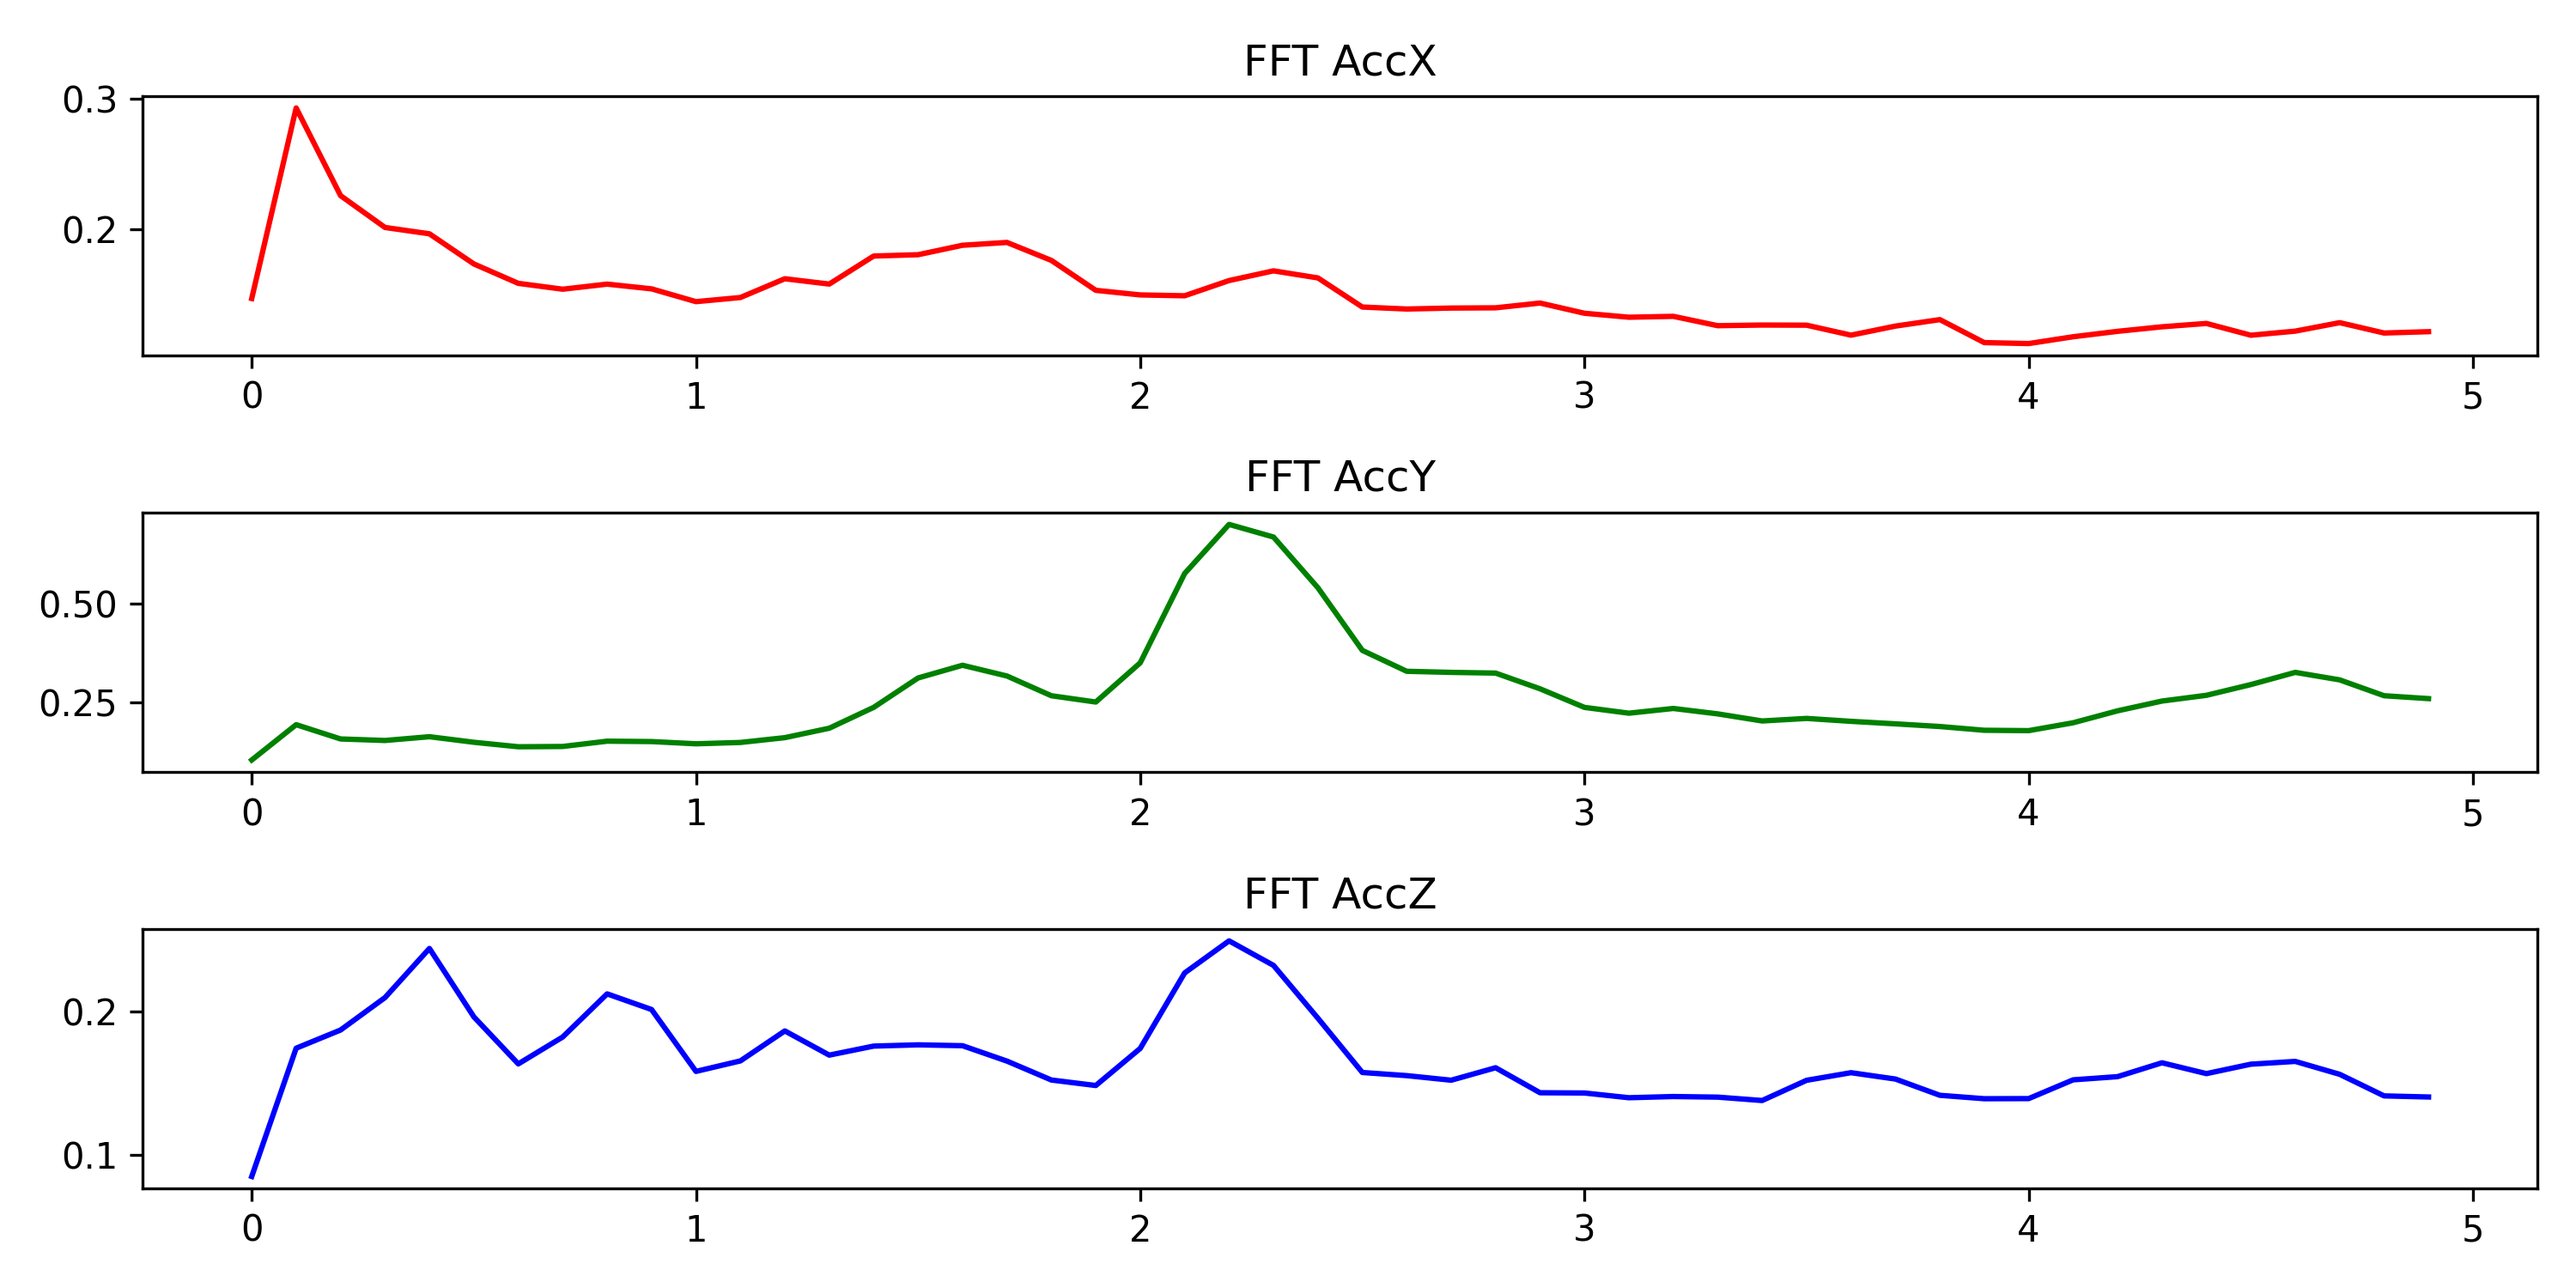
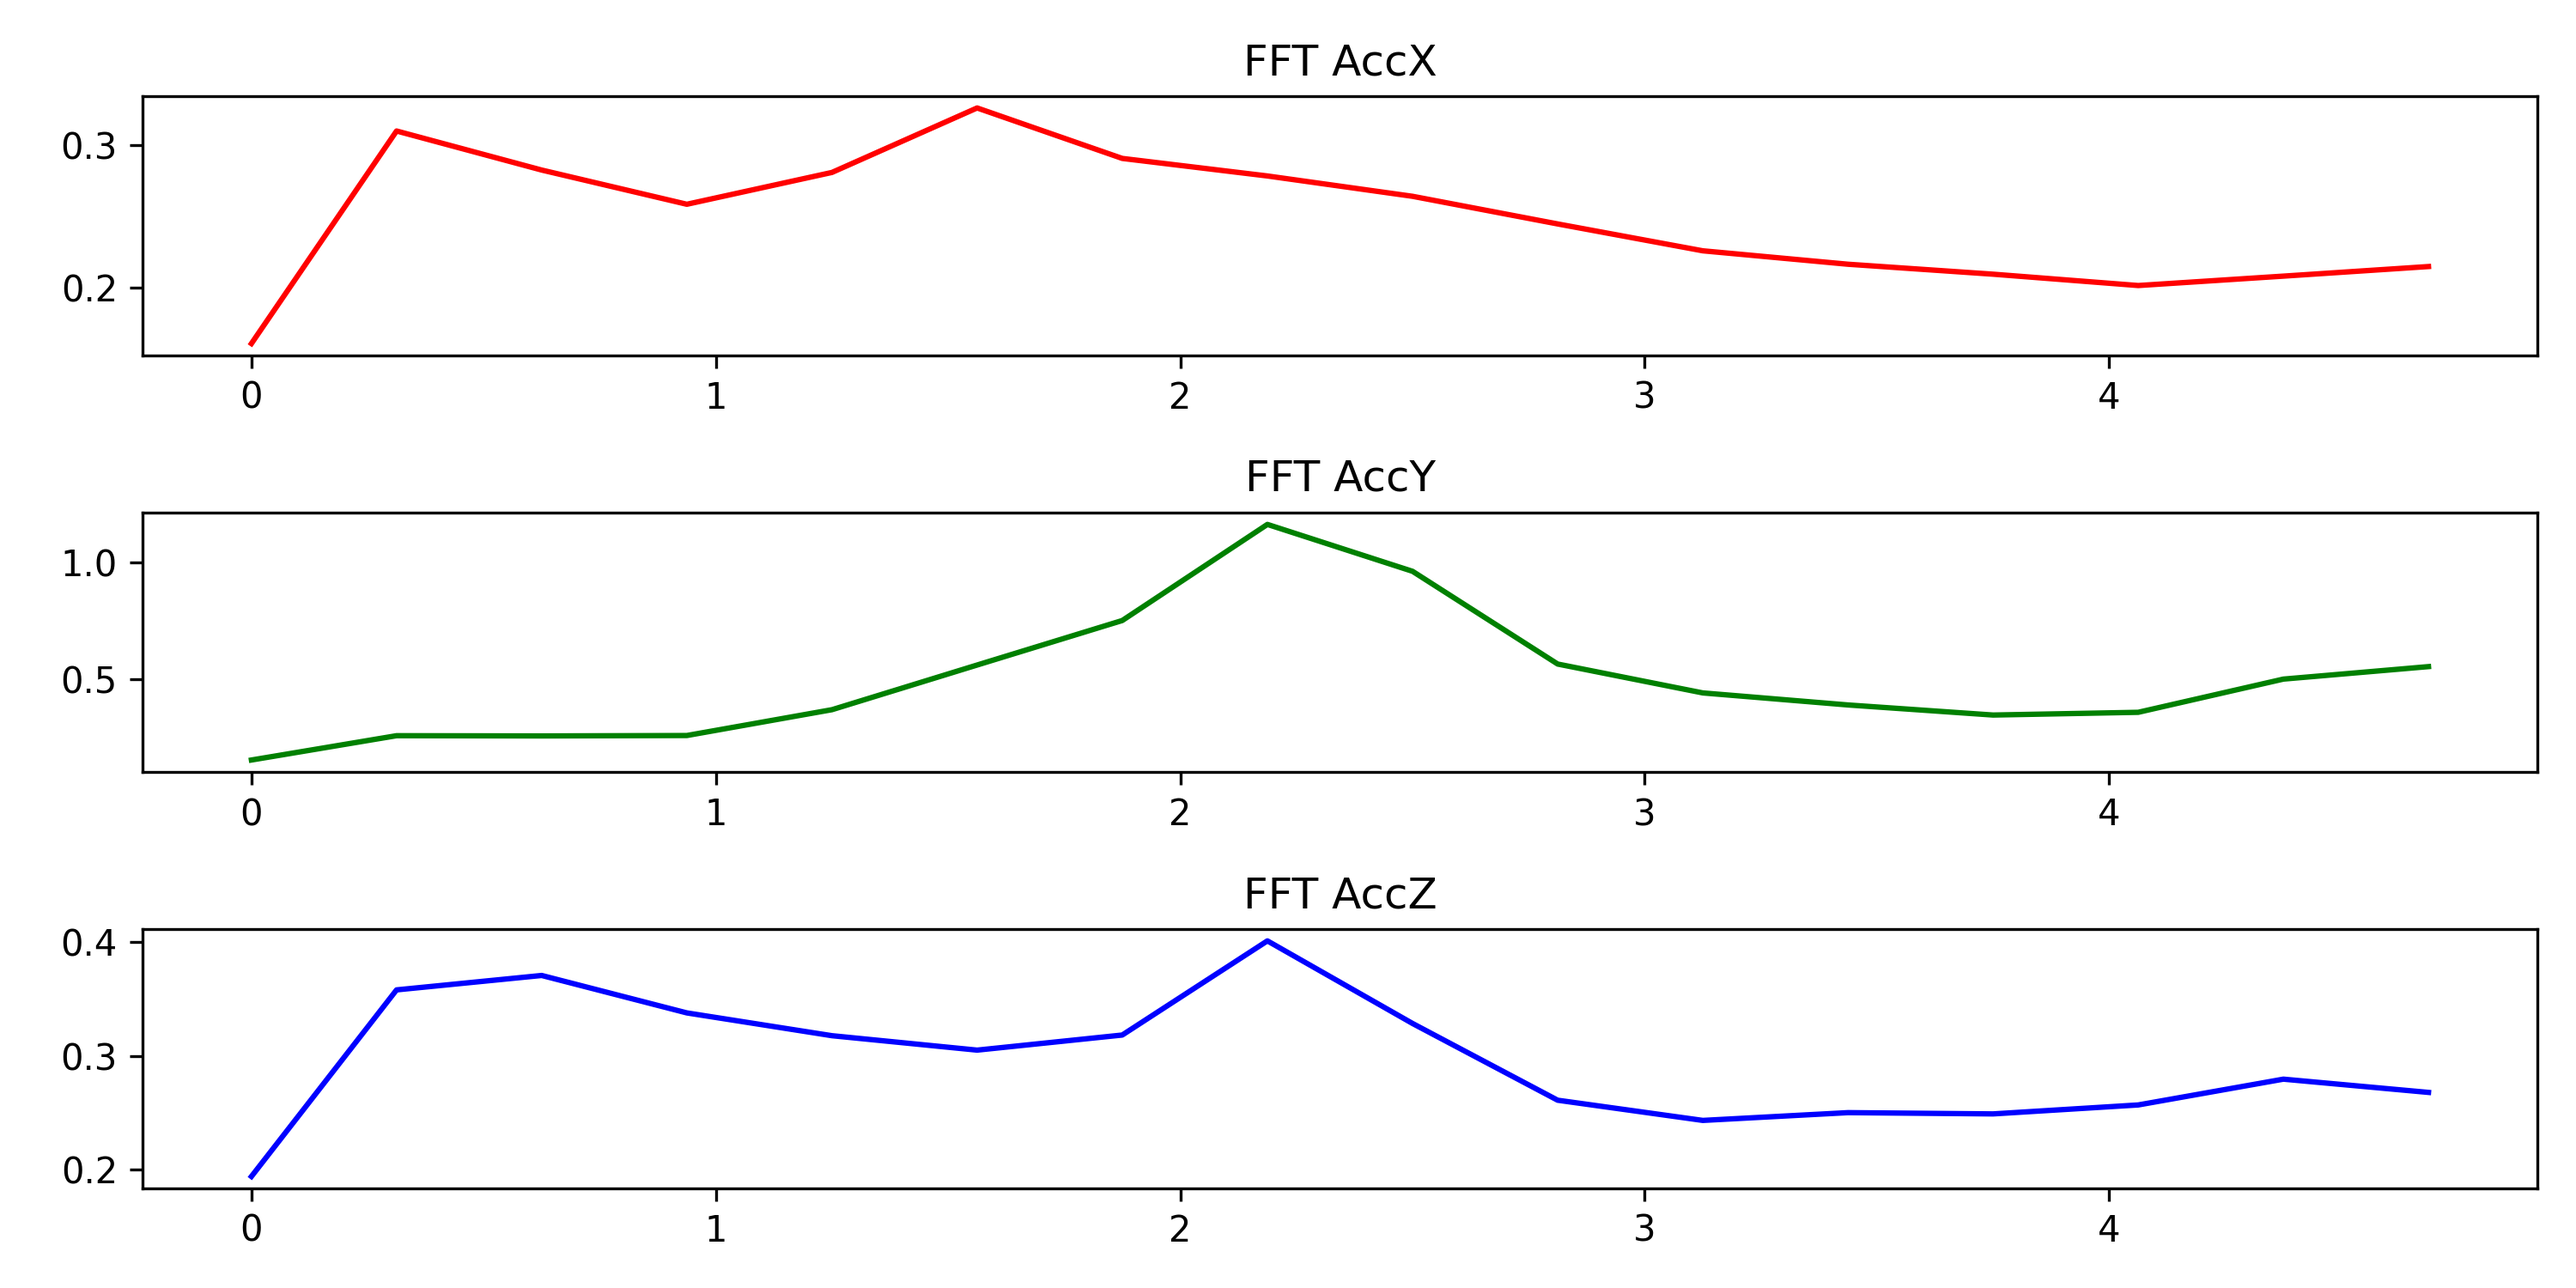
ref

diff --git a/stat/stat_student.py b/stat/stat_student.py
@@ -11,6 +11,7 @@ from scipy.spatial.transform import Rotation as R
 
 from prototype.constant import Constant
 from prototype.global_tramsform import transform_sensor_data_to_df, transform_sensor_data_to_np
+from stat_common import calc_hanmming_window, save_fft_result, calc_df_fft, calc_fft_spectral_energy, spectral_entropy
 from utils.slidewindow import slide_window2
 
 all_save_base_path = './student/20240721/all/'
@@ -53,9 +54,10 @@ def show_stu_hist_stat2():
     df_stat, df_pearson = calc_df_features(big_df)
 
     # 计算平均fft
-    fft_x_avg_series, fft_y_avg_series, fft_z_avg_series, freq = calc_df_avg_fft(big_df)
+    fft_x_avg_series, fft_y_avg_series, fft_z_avg_series, freq, df_freq_stat = calc_df_avg_fft(big_df)
     save_fft_result(fft_x_avg_series, fft_y_avg_series, fft_z_avg_series, freq, f'{all_save_base_path}fft_all_avg_result.png')
     df_stat.to_csv(f'{all_save_base_path}Student_all_data_features.csv')
+    df_freq_stat.to_csv(f'{all_save_base_path}Student_all_data_freq_features.csv')
     df_pearson.to_csv(f'{all_save_base_path}Student_all_data_pearson.csv')
 
 # 展示2023年所有的儿童的步行特征量(按照标签进行分组展示)
@@ -70,39 +72,15 @@ def show_stu_hist_stat3():
         data = data.iloc[:, 1:10]
 
         # 计算平均fft
-        fft_x_avg_series, fft_y_avg_series, fft_z_avg_series, freq = calc_df_avg_fft(data)
+        fft_x_avg_series, fft_y_avg_series, fft_z_avg_series, freq, df_freq_stat = calc_df_avg_fft(data)
         save_fft_result(fft_x_avg_series, fft_y_avg_series, fft_z_avg_series, freq,
                         f'{all_save_base_path}fft_{label}_avg_result.png')
 
         # 计算特征量
         df_stat, df_pearson = calc_df_features(data)
         df_stat.to_csv(f'{all_save_base_path}Student_{label}_features.csv')
+        df_freq_stat.to_csv(f'{all_save_base_path}Student_{label}_freq_features.csv')
         df_pearson.to_csv(f'{all_save_base_path}Student_{label}_pearson.csv')
-
-# 每个个体之间的差异
-def show_stu_hist_stat4():
-    df = read_data()
-
-    # 使用 group by 根据 'Category' 列分组
-    groups = list(df.groupby('object'))
-
-    all_individual = []
-    for group in groups:
-        label = group[0]
-        data = group[1]
-        data = data.iloc[:, 1:10]
-
-        # 计算平均fft
-        fft_x_avg_series, fft_y_avg_series, fft_z_avg_series, freq = calc_df_avg_fft(data)
-        save_fft_result(fft_x_avg_series, fft_y_avg_series, fft_z_avg_series, freq,
-                        f'{individual}fft_{label}_avg_result.png')
-
-        df_stat, _ = calc_df_features(data)
-        all_individual.append(df_stat)
-    all_individual_stat_data = np.array(all_individual)
-    std_values = np.std(all_individual_stat_data, axis=0)
-    std_df = pd.DataFrame(std_values, index=all_individual[0].index , columns=all_individual[0].columns)
-    std_df.to_csv(f'{individual}Child_individual_features.csv')
 
 # 读取数据
 def read_data(file_name = '../data/student/0726_lab/merge_labeled.csv'):
@@ -147,90 +125,66 @@ def calc_df_features(df):
 
     return df_stat, df_pearson
 
-# 对单个dataframe整体进行FFT变换
-def calc_df_fft(df):
-    T = 0.1  # 采样周期为 0.1 秒（10Hz)
-    df_acc_x = df['x(m/s2)'].values
-    df_acc_y = df['y(m/s2)'].values
-    df_acc_z = df['z(m/s2)'].values
-
-    N = len(df_acc_x)
-
-    # 前处理: 去除直流成分
-    df_acc_x = df_acc_x - np.mean(df_acc_x)
-    df_acc_y = df_acc_y - np.mean(df_acc_y)
-    df_acc_z = df_acc_z - np.mean(df_acc_z)
-
-    # 计算傅里叶变换 (对原始数据进行 汉明窗变换)
-    df_acc_x = calc_hanmming_window(df_acc_x, N)
-    df_acc_y = calc_hanmming_window(df_acc_y, N)
-    df_acc_z = calc_hanmming_window(df_acc_z, N)
-
-    # FFT
-    fft_acc_x = fft(df_acc_x)
-    fft_acc_y = fft(df_acc_y)
-    fft_acc_z = fft(df_acc_z)
-
-    # 计算频率
-    freq_acc_x = fftfreq(N, T)[:N // 2]
-
-    fft_x_result_scaling = 2.0 / N * np.abs(fft_acc_x[:N // 2])
-    fft_y_result_scaling = 2.0 / N * np.abs(fft_acc_y[:N // 2])
-    fft_z_result_scaling = 2.0 / N * np.abs(fft_acc_z[:N // 2])
-
-    # 绘制傅里叶变换结果
-    # fig, axs = plt.subplots(3, 1, figsize=[10, 5])
-    #
-    # axs[0].plot(freq_acc_x, fft_x_result_scaling, c='r')
-    # axs[1].plot(freq_acc_x, fft_y_result_scaling, c='g')
-    # axs[2].plot(freq_acc_x, fft_z_result_scaling, c='b')
-    # axs[0].set_title('FFT AccX')
-    # axs[1].set_title('FFT AccY')
-    # axs[2].set_title('FFT AccZ')
-    # fig.tight_layout()
-    # plt.show()
-    return fft_x_result_scaling, fft_y_result_scaling, fft_z_result_scaling, freq_acc_x
-
 # 对一个dataframe分段计算FFT,然后合并平均FFT的结果
 def calc_df_avg_fft(df):
-    list_windows = slide_window2(df, 100, 0.5)
+    list_windows = slide_window2(df, 32, 0.5)
     fft_x_list = []
     fft_y_list = []
     fft_z_list = []
     freq = 0.0
+
+    features_list = []
     for data_window in list_windows:
-        fft_x, fft_y, fft_z, freq_x = calc_df_fft(data_window)
+        fft_x, fft_y, fft_z, freq_x, max_freq_x, max_freq_y, max_freq_z = calc_df_fft(data_window, acc_x_name='x(m/s2)', acc_y_name='y(m/s2)', acc_z_name='z(m/s2)')
+        x_spec_energy, y_spec_energy, z_spec_energy, spec_total = calc_fft_spectral_energy(data_window, acc_x_name='x(m/s2)', acc_y_name='y(m/s2)', acc_z_name='z(m/s2)')
+        x_spec_entropy, y_spec_entropy, z_spec_entropy, entropy_total = spectral_entropy(data_window, acc_x_name='x(m/s2)', acc_y_name='y(m/s2)', acc_z_name='z(m/s2)')
+
         fft_x_list.append(fft_x)
         fft_y_list.append(fft_y)
         fft_z_list.append(fft_z)
 
         # 所有FFT结果一样
         freq = freq_x
+        # 特征值(能量与能量熵)
+        features_list.append((x_spec_energy, y_spec_energy, z_spec_energy, spec_total,
+                              x_spec_entropy, y_spec_entropy, z_spec_entropy, entropy_total,
+                              max_freq_x, max_freq_y, max_freq_z))
 
-    # fft_x_avg_seria
+    feature_arr = np.array(features_list)
+
+    # 所有数据,每个频段上的平均(1hz, 2hz, 3hz)
     fft_x_avg_series = np.array(fft_x_list).mean(axis=0)
     fft_y_avg_series = np.array(fft_y_list).mean(axis=0)
     fft_z_avg_series = np.array(fft_z_list).mean(axis=0)
 
-    return fft_x_avg_series, fft_y_avg_series, fft_z_avg_series, freq
+    # 所有数据,全频段上的能量和,的平均energy(1hz+2hz+3hz)/avg
+    energy_x_avg_series = np.mean(feature_arr[:, 0])
+    energy_y_avg_series = np.mean(feature_arr[:, 1])
+    energy_z_avg_series = np.mean(feature_arr[:, 2])
+    energy_t_avg_series = np.mean(feature_arr[:, 3])
 
-# 保存FFT变换的结果
-def save_fft_result(fft_x_avg_series, fft_y_avg_series, fft_z_avg_series, freq , file_name):
-    # 绘制傅里叶变换结果
-    fig, axs = plt.subplots(3, 1, figsize=[10, 5])
-    axs[0].plot(freq, fft_x_avg_series, c='r')
-    axs[1].plot(freq, fft_y_avg_series, c='g')
-    axs[2].plot(freq, fft_z_avg_series, c='b')
-    axs[0].set_title('FFT AccX')
-    axs[1].set_title('FFT AccY')
-    axs[2].set_title('FFT AccZ')
-    fig.tight_layout()
-    plt.savefig(f'{file_name}', dpi=300)
+    # 所有数据,全频段上的能量熵,的平均entropy(1hz+2hz+3hz)/avg
+    entropy_x_avg_series = np.mean(feature_arr[:, 4])
+    entropy_y_avg_series = np.mean(feature_arr[:, 5])
+    entropy_z_avg_series = np.mean(feature_arr[:, 6])
+    entropy_t_avg_series = np.mean(feature_arr[:, 7])
 
-# 对数据进行汉明窗变换
-def calc_hanmming_window(data, N):
-    hamming_window = hamming(N)
-    return hamming_window * data
+    # 频域最大值(hz)
+    freq_max_x = np.mean(feature_arr[:, 8])
+    freq_max_y = np.mean(feature_arr[:, 9])
+    freq_max_z = np.mean(feature_arr[:, 10])
+
+    # 保存特征分析结果
+    df_stat = pd.DataFrame([energy_x_avg_series, energy_y_avg_series, energy_z_avg_series, energy_t_avg_series, \
+                            entropy_x_avg_series, entropy_y_avg_series, entropy_z_avg_series, entropy_t_avg_series,
+                            freq_max_x, freq_max_y, freq_max_z])
+    df_stat.index = ['energy_x', 'energy_y', 'energy_z', 'energy_total',
+                     'entropy_x', 'entropy_y', 'entropy_z', 'entropy_total',
+                     'freq_max_x', 'freq_max_y', 'freq_max_z']
+    df_stat.columns = ['value']
+
+    return fft_x_avg_series, fft_y_avg_series, fft_z_avg_series, freq, df_stat
+
 
 # 展示儿童进行全局变换后的结果(使用我自己的算法)
 def show_child_after_transformed():

diff --git a/stat/stat_child_2024.py b/stat/stat_child_2024.py
@@ -58,52 +58,6 @@ def show_child_hist_stat2():
     df_freq_stat.to_csv(f'{all_save_base_path}Child_freq_features.csv')
     df_pearson.to_csv(f'{all_save_base_path}Child_all_data_pearson.csv')
 
-# 展示2023年所有的儿童的步行特征量(按照标签进行分组展示)
-def show_child_hist_stat3():
-    big_df = read_data()
-    # 使用 group by 根据 'Category' 列分组
-    groups = list(big_df.groupby('X'))
-
-    for group in groups:
-        label = Constant.ChildWalk.action_map_en.get(group[0])
-        data = group[1]
-        data = data.iloc[:, 1:10]
-
-        # 计算平均fft
-        fft_x_avg_series, fft_y_avg_series, fft_z_avg_series, freq = calc_df_avg_fft(data)
-        save_fft_result(fft_x_avg_series, fft_y_avg_series, fft_z_avg_series, freq,
-                        f'{all_save_base_path}fft_{label}_avg_result.png')
-
-        # 计算特征量
-        df_stat, df_pearson = calc_df_features(data)
-        df_stat.to_csv(f'{all_save_base_path}Child_{label}_features.csv')
-        df_pearson.to_csv(f'{all_save_base_path}Child_{label}_pearson.csv')
-
-# 每个个体之间的差异
-def show_child_hist_stat4():
-    df = read_data()
-
-    # 使用 group by 根据 'Category' 列分组
-    groups = list(df.groupby('object'))
-
-    all_individual = []
-    for group in groups:
-        label = group[0]
-        data = group[1]
-        data = data.iloc[:, 1:10]
-
-        # 计算平均fft
-        fft_x_avg_series, fft_y_avg_series, fft_z_avg_series, freq = calc_df_avg_fft(data)
-        save_fft_result(fft_x_avg_series, fft_y_avg_series, fft_z_avg_series, freq,
-                        f'{individual}fft_{label}_avg_result.png')
-
-        df_stat, _ = calc_df_features(data)
-        all_individual.append(df_stat)
-    all_individual_stat_data = np.array(all_individual)
-    std_values = np.std(all_individual_stat_data, axis=0)
-    std_df = pd.DataFrame(std_values, index=all_individual[0].index , columns=all_individual[0].columns)
-    std_df.to_csv(f'{individual}Child_individual_features.csv')
-
 # 读取数据
 def read_data(file_name = '../data/child/2024_04/toyota_202404_crossing/*/*/*.csv'):
     file_list = glob.glob(file_name)
@@ -282,4 +236,4 @@ def show_child_after_transformed():
     # plt.show()
 
 if __name__ == '__main__':
-    show_child_hist_stat2()
+    show_child_hist_stat3()
